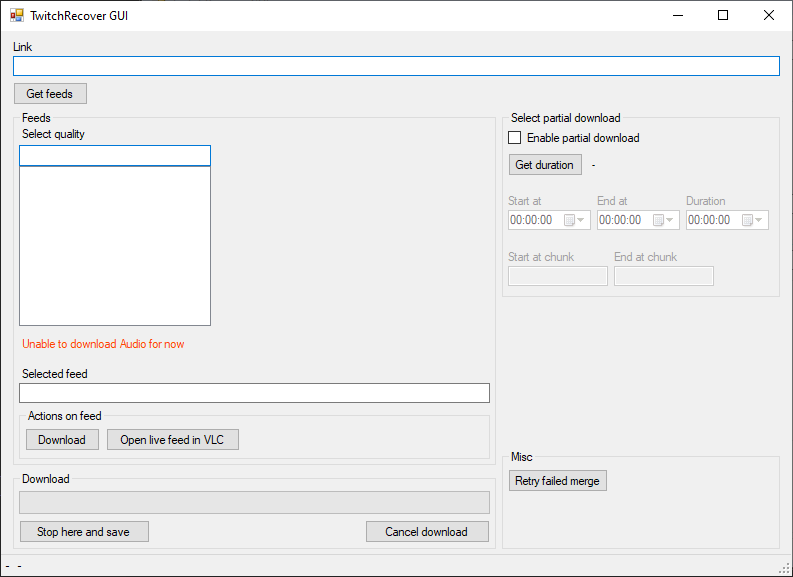
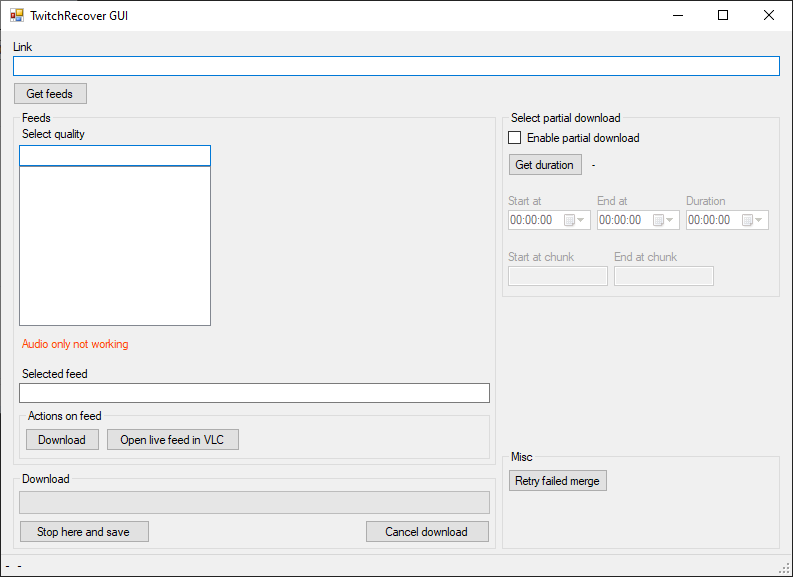
small change on audio label

Changed region(s): [[0.9987, 0.0, 1.0, 0.9983], [0.0303, 0.5927, 0.2421, 0.6239]]

diff --git a/TwitchRecoverGui/Form1.Designer.cs b/TwitchRecoverGui/Form1.Designer.cs
@@ -44,7 +44,6 @@
             this.button4 = new System.Windows.Forms.Button();
             this.textBox2 = new System.Windows.Forms.TextBox();
             this.label4 = new System.Windows.Forms.Label();
-            this.label5 = new System.Windows.Forms.Label();
             this.button5 = new System.Windows.Forms.Button();
             this.button6 = new System.Windows.Forms.Button();
             this.button7 = new System.Windows.Forms.Button();
@@ -65,6 +64,7 @@
             this.groupBox3 = new System.Windows.Forms.GroupBox();
             this.groupBox4 = new System.Windows.Forms.GroupBox();
             this.groupBox5 = new System.Windows.Forms.GroupBox();
+            this.label5 = new System.Windows.Forms.Label();
             this.statusStrip1.SuspendLayout();
             this.groupBox1.SuspendLayout();
             this.groupBox2.SuspendLayout();
@@ -215,17 +215,6 @@
             this.label4.Size = new System.Drawing.Size(73, 13);
             this.label4.TabIndex = 12;
             this.label4.Text = "Selected feed";
-            // 
-            // label5
-            // 
-            this.label5.Anchor = ((System.Windows.Forms.AnchorStyles)((System.Windows.Forms.AnchorStyles.Bottom | System.Windows.Forms.AnchorStyles.Left)));
-            this.label5.AutoSize = true;
-            this.label5.ForeColor = System.Drawing.Color.OrangeRed;
-            this.label5.Location = new System.Drawing.Point(6, 226);
-            this.label5.Name = "label5";
-            this.label5.Size = new System.Drawing.Size(170, 13);
-            this.label5.TabIndex = 13;
-            this.label5.Text = "Unable to download Audio for now";
             // 
             // button5
             // 
@@ -446,6 +435,17 @@
             this.groupBox5.TabStop = false;
             this.groupBox5.Text = "Misc";
             // 
+            // label5
+            // 
+            this.label5.Anchor = ((System.Windows.Forms.AnchorStyles)((System.Windows.Forms.AnchorStyles.Bottom | System.Windows.Forms.AnchorStyles.Left)));
+            this.label5.AutoSize = true;
+            this.label5.ForeColor = System.Drawing.Color.OrangeRed;
+            this.label5.Location = new System.Drawing.Point(6, 226);
+            this.label5.Name = "label5";
+            this.label5.Size = new System.Drawing.Size(114, 13);
+            this.label5.TabIndex = 13;
+            this.label5.Text = "Audio only not working";
+            // 
             // Form1
             // 
             this.AutoScaleDimensions = new System.Drawing.SizeF(6F, 13F);
@@ -495,7 +495,6 @@
         private System.Windows.Forms.Button button4;
         private System.Windows.Forms.TextBox textBox2;
         private System.Windows.Forms.Label label4;
-        private System.Windows.Forms.Label label5;
         private System.Windows.Forms.Button button5;
         private System.Windows.Forms.Button button6;
         private System.Windows.Forms.Button button7;
@@ -516,6 +515,7 @@
         private System.Windows.Forms.GroupBox groupBox3;
         private System.Windows.Forms.GroupBox groupBox4;
         private System.Windows.Forms.GroupBox groupBox5;
+        private System.Windows.Forms.Label label5;
     }
 }
 
